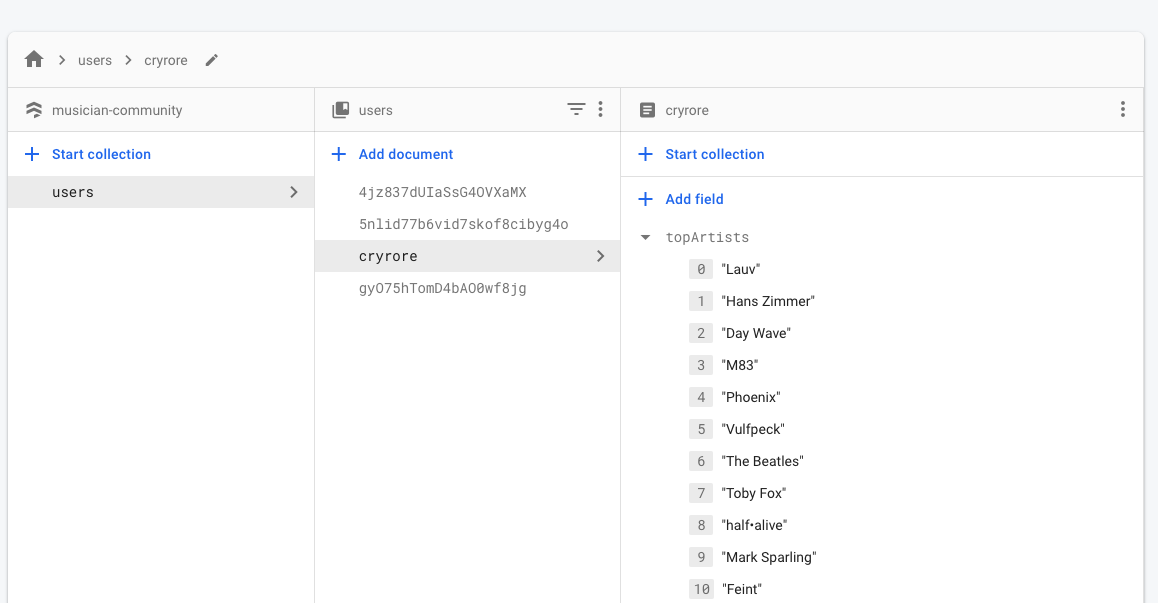
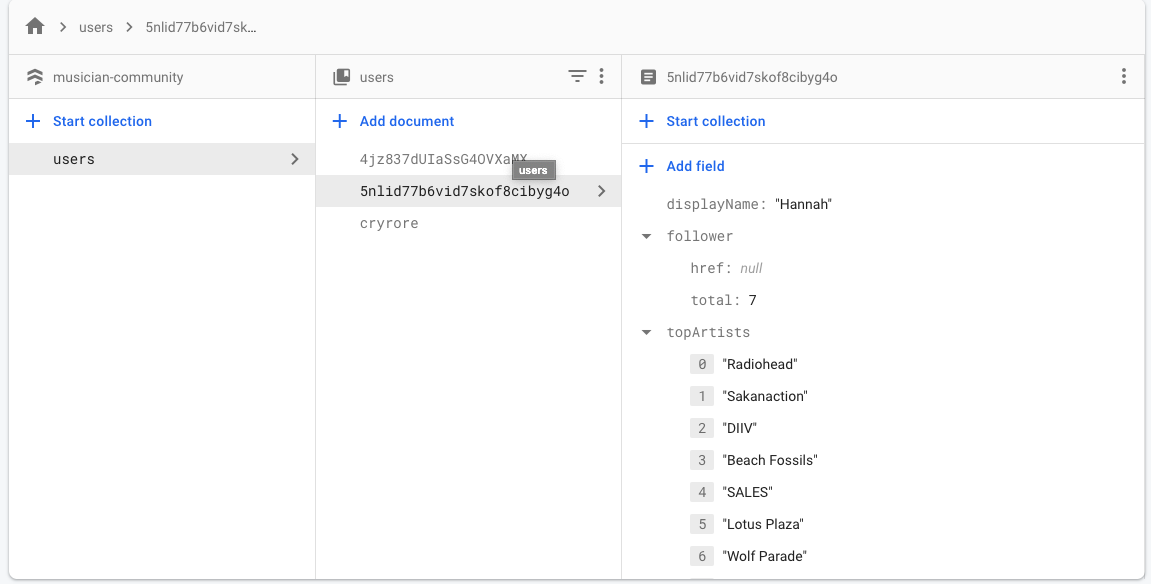
add more fields to db

diff --git a/musician_community/authorization_code/public/index.html b/musician_community/authorization_code/public/index.html
@@ -285,7 +285,12 @@
         //   var uID = response.id;
         // },
       }).then((response) => {
+        console.log(response);
+        var displayName = response.display_name;
+        var url = response.external_urls;
+        var follower = response.followers;
         var uID = response.id;
+        // var
         const firestore = firebase.firestore();
         const settings = { /* your settings... */ timestampsInSnapshots: true };
         firestore.settings(settings);
@@ -296,6 +301,9 @@
         const users = db.collection("users");
         db.collection("users").doc(uID).set({
           topArtists: top_artists,
+          displayName: displayName,
+          url: url.spotify,
+          follower: follower,
         });
       });
     </script>
